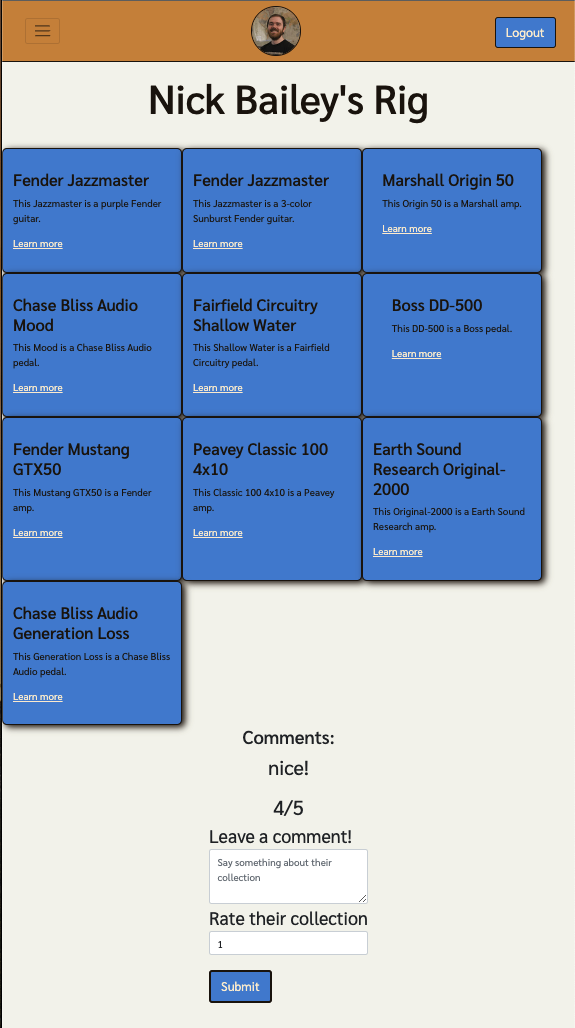
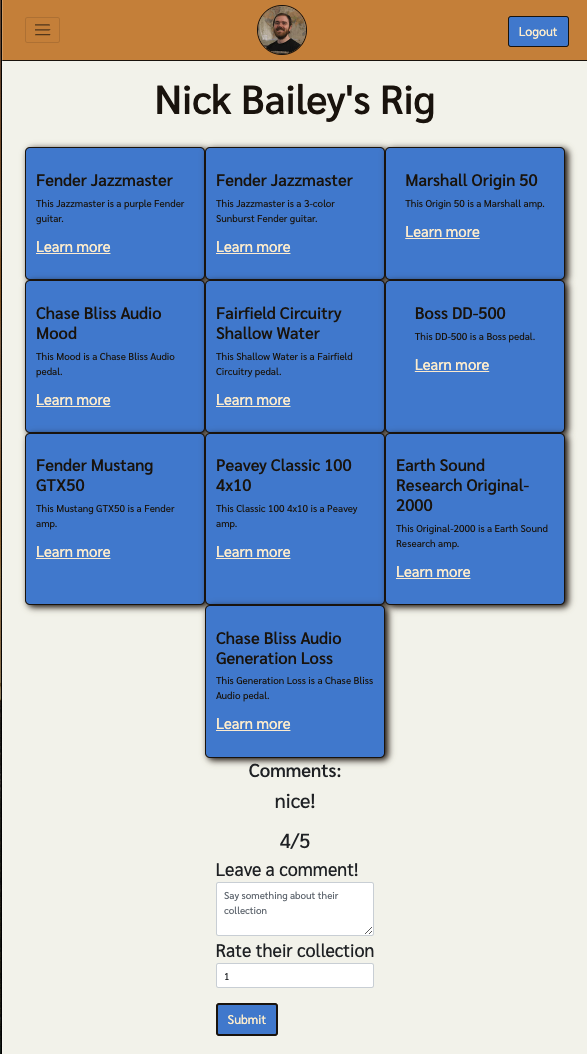
update screenshot, fix centering on profile page

Changed region(s): [[0.0, 0.0, 1.0, 0.9961]]

diff --git a/public/stylesheets/profiles/show.css b/public/stylesheets/profiles/show.css
@@ -14,7 +14,6 @@ main{
 
 .card {
   align-items: center;
-  justify-content: left;
   padding: 2% 0;
   /* margin: 2% auto; */
   display: flex;
@@ -30,6 +29,7 @@ main{
   display: flex;
   flex-direction: row;
   flex-wrap: wrap;
+justify-content: center;
 }
 
 .card-title,
